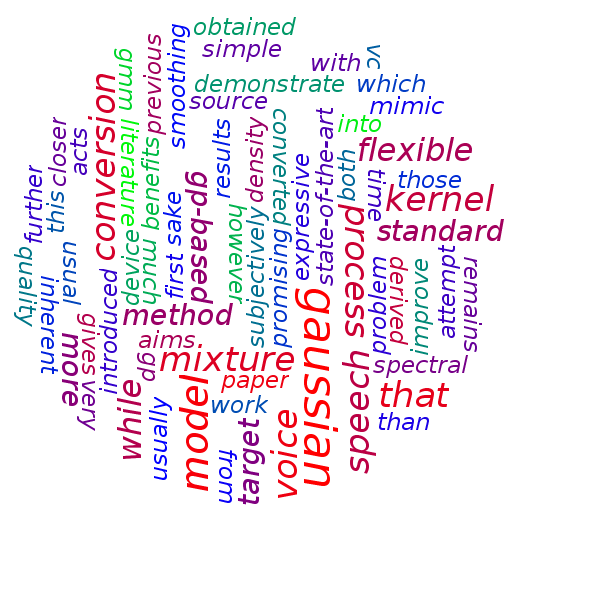
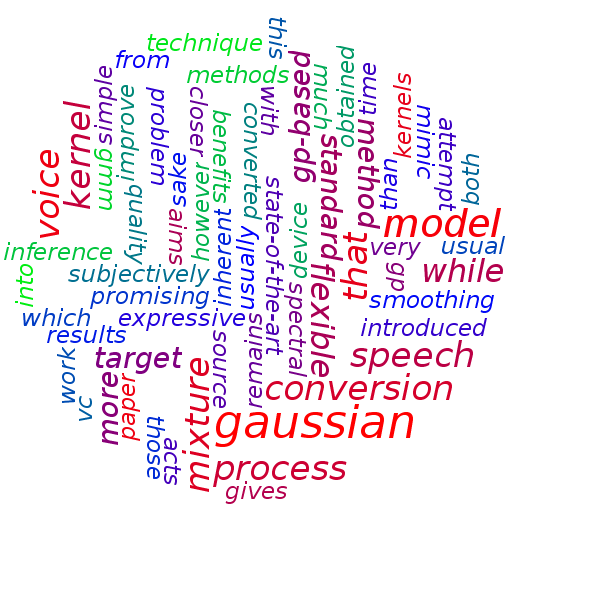
start analysis

Changed region(s): [[0.0, 0.03, 0.84, 0.84]]

diff --git a/src/main/java/com/likole/aihw/preprocess/spider/article/PostProcess.java b/src/main/java/com/likole/aihw/preprocess/spider/article/PostProcess.java
@@ -3,7 +3,7 @@ package com.likole.aihw.preprocess.spider.article;
 import com.likole.aihw.bean.Article;
 import com.likole.aihw.bean.Author;
 import com.likole.aihw.bean.AuthorArticle;
-import com.likole.aihw.preprocess.DBUtils;
+import com.likole.aihw.preprocess.DbUtils;
 import org.jsoup.select.Elements;
 import org.nutz.json.Json;
 import us.codecraft.xsoup.Xsoup;
@@ -54,36 +54,39 @@ public class PostProcess {
                     article.setWos(value.substring(4));
                     break;
                 default:
-
             }
         }
-        System.out.println(article);
         //insert
-        DBUtils.getDao().insertOrUpdate(article);
+        DbUtils.getDao().insertOrUpdate(article);
         //wordcloud
-        if(article.getAbstractt()!=null&&article.getKeyword()!=null){
-            WordCloud.generate(article.getWos(),article.getAbstractt(), (List<String>) Json.fromJson(article.getKeyword()));
+        if(article.getAbstractt()!=null){
+            if(article.getKeyword()==null){
+                WordCloud.generate(article.getWos(),article.getAbstractt());
+            }else{
+                WordCloud.generate(article.getWos(),article.getAbstractt(), (List<String>) Json.fromJson(article.getKeyword()));
+            }
         }
         //extract author
         List<String> authorFullNames= (List<String>) Json.fromJson(article.getAuthorFullname());
         List<String> authorShortNames= (List<String>) Json.fromJson(article.getAuthor());
         for(int i=0;i<authorFullNames.size();i++){
             //author count
-            Author author=DBUtils.getDao().fetch(Author.class,authorFullNames.get(i));
+            Author author= DbUtils.getDao().fetch(Author.class,authorFullNames.get(i));
             if(author==null){
                 author=new Author();
                 author.setAuthorFullName(authorFullNames.get(i));
                 author.setAuthorShortName(authorShortNames.get(i));
                 author.setArticleNumbers(0);
             }
+            author.setFirstYear(article.getYear());
             author.setArticleNumbers(author.getArticleNumbers()+1);
-            DBUtils.getDao().insertOrUpdate(author);
+            DbUtils.getDao().insertOrUpdate(author);
             //author article
             AuthorArticle authorArticle=new AuthorArticle();
             authorArticle.setAuthorFullName(authorFullNames.get(i));
             authorArticle.setTitle(article.getTitle());
             authorArticle.setWos(article.getWos());
-            DBUtils.getDao().insertOrUpdate(authorArticle);
+            DbUtils.getDao().insertOrUpdate(authorArticle);
         }
         System.out.println(article.getWos() + " updated!");
     }

diff --git a/src/main/test/NeoTest.java b/src/main/test/NeoTest.java
@@ -1,0 +1,35 @@
+import org.junit.Test;
+import org.neo4j.graphdb.*;
+import org.neo4j.graphdb.factory.GraphDatabaseFactory;
+
+import java.io.File;
+
+public class NeoTest {
+
+    private static enum RelTypes implements RelationshipType {
+        KNOWS
+    }
+
+    @Test
+    public void start() {
+        final GraphDatabaseService graphDb = new GraphDatabaseFactory().newEmbeddedDatabase(new File("webapp/static/db/authors"));
+        Runtime.getRuntime().addShutdownHook(new Thread() {
+            @Override
+            public void run() {
+                graphDb.shutdown();
+            }
+        });
+        try (Transaction tx = graphDb.beginTx()) {
+
+            Node firstNode = graphDb.createNode();
+            firstNode.setProperty("message", "Hello, ");
+            Node secondNode = graphDb.createNode();
+            secondNode.setProperty("message", "World!");
+
+            Relationship relationship = firstNode.createRelationshipTo(secondNode, RelTypes.KNOWS);
+            relationship.setProperty("message", "brave Neo4j ");
+            tx.success();
+        }
+
+    }
+}

diff --git a/src/main/java/com/likole/aihw/preprocess/spider/reference/DbPipeline.java b/src/main/java/com/likole/aihw/preprocess/spider/reference/DbPipeline.java
@@ -1,7 +1,7 @@
 package com.likole.aihw.preprocess.spider.reference;
 
 import com.likole.aihw.bean.ArticleReference;
-import com.likole.aihw.preprocess.DBUtils;
+import com.likole.aihw.preprocess.DbUtils;
 import us.codecraft.webmagic.ResultItems;
 import us.codecraft.webmagic.Task;
 import us.codecraft.webmagic.pipeline.Pipeline;
@@ -25,7 +25,7 @@ public class DbPipeline implements Pipeline {
             articleReference.setFromTitle(fromTitle);
             articleReference.setToWOS(toWOSs.get(i).substring(toWOSs.get(i).indexOf("WOS:")+4));
             articleReference.setToTitle(toTitles.get(i));
-            DBUtils.getDao().insertOrUpdate(articleReference);
+            DbUtils.getDao().insertOrUpdate(articleReference);
         }
     }
 }

diff --git a/src/main/java/com/likole/aihw/preprocess/spider/article/WordCloud.java b/src/main/java/com/likole/aihw/preprocess/spider/article/WordCloud.java
@@ -10,6 +10,7 @@ import com.kennycason.kumo.nlp.tokenizer.WhiteSpaceWordTokenizer;
 import com.kennycason.kumo.palette.LinearGradientColorPalette;
 
 import java.awt.*;
+import java.security.PublicKey;
 import java.util.ArrayList;
 import java.util.List;
 
@@ -17,6 +18,11 @@ import java.util.List;
  * @author likole
  */
 public class WordCloud {
+
+    public static void generate(String wos,String abstractt){
+        List<String> keywords=new ArrayList<>();
+        generate(wos,abstractt,keywords);
+    }
 
     public static void generate(String wos,String abstractt, List<String> keywords){
         FrequencyAnalyzer frequencyAnalyzer = new FrequencyAnalyzer();

diff --git a/src/main/java/com/likole/aihw/bean/Author.java b/src/main/java/com/likole/aihw/bean/Author.java
@@ -18,6 +18,18 @@ public class Author {
     @Default("0")
     private int articleNumbers;
 
+    @Column
+    private int firstYear;
+
+    public int getFirstYear() {
+        return firstYear;
+    }
+
+    public void setFirstYear(int firstYear) {
+        if(this.firstYear==0||this.firstYear>firstYear) {
+            this.firstYear = firstYear;
+        }
+    }
 
     public int getArticleNumbers() {
         return articleNumbers;

diff --git a/src/main/java/com/likole/aihw/preprocess/DbUtils.java b/src/main/java/com/likole/aihw/preprocess/DbUtils.java
@@ -7,7 +7,7 @@ import org.nutz.dao.impl.SimpleDataSource;
 /**
  * @author likole
  */
-public class DBUtils {
+public class DbUtils {
     private static Dao dao;
 
     public static Dao getDao() {

diff --git a/src/main/java/com/likole/aihw/preprocess/NeoUtils.java b/src/main/java/com/likole/aihw/preprocess/NeoUtils.java
@@ -1,0 +1,5 @@
+package com.likole.aihw.preprocess;
+
+public class NeoUtils {
+
+}
